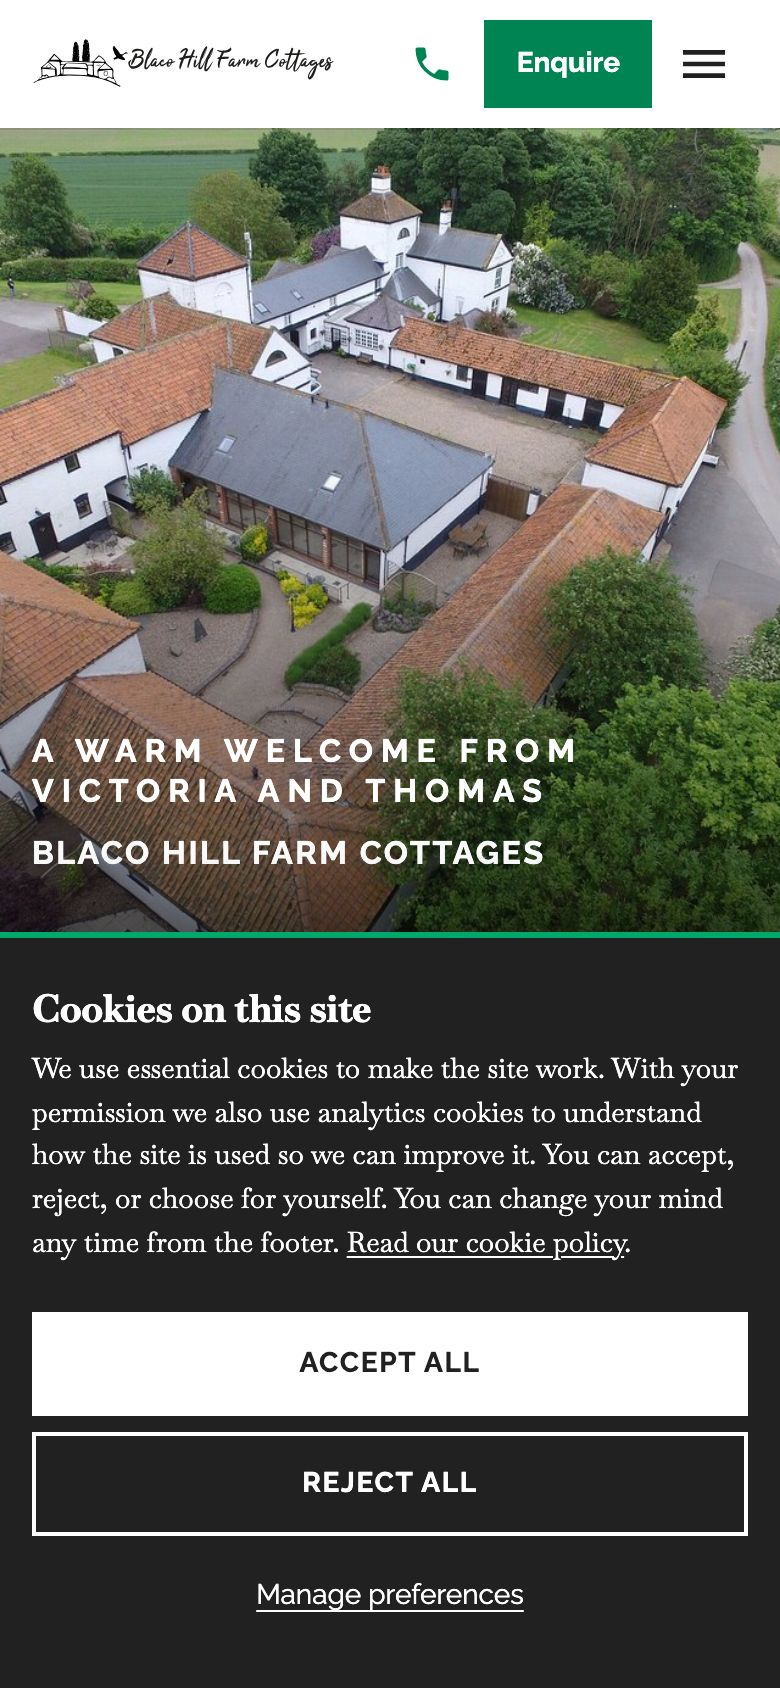
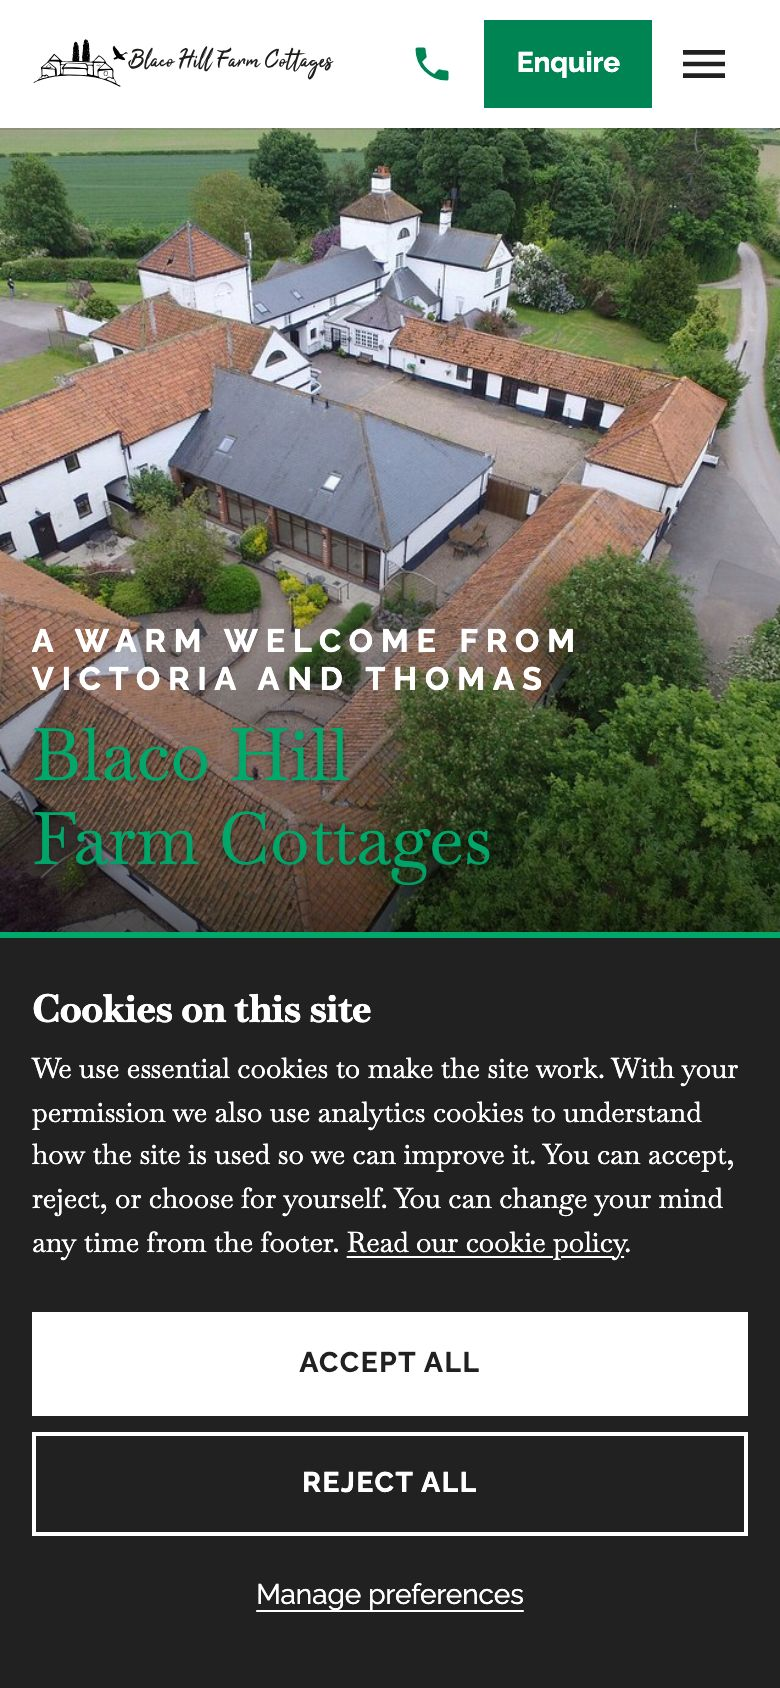
Match the hero's second line to live
"Blaco Hill Farm Cottages" is the large line again, as on live:
Baskervville regular in brand green with Divi's soft shadow, 77px at
1440px, 36px at 390px (two balanced lines on phones) and growing with
the root size above 1440px. No overflow from 360px to 2800px.
Screenshots retaken.

Changed region(s): [[0.0308, 0.3697, 0.7385, 0.5237]]

diff --git a/app/components/blocks/Blocks.module.css b/app/components/blocks/Blocks.module.css
@@ -202,12 +202,17 @@
   text-transform: uppercase;
 }
 
+/* Live's large second line: body Baskervville (inherited), regular weight,
+   77px at 1440px in brand green with Divi's soft shadow. Here 36px at 390px
+   (two lines on phones) rising to 77px at 1440px, then growing with the root
+   size above 1440px. Live's 2.1 line height is tightened so it wraps cleanly. */
 .sliderSub {
-  font-family: var(--font-sans);
-  font-size: var(--step-0);
-  font-weight: 700;
-  letter-spacing: 0.08em;
-  text-transform: uppercase;
+  color: var(--colour-green);
+  font-size: clamp(2.25rem, 1.2982rem + 3.9048vw, 4.8125rem);
+  font-weight: 400;
+  line-height: 1.15;
+  text-shadow: 0 1px 3px rgba(0, 0, 0, 0.3);
+  text-wrap: balance;
 }
 
 .sliderDots {
